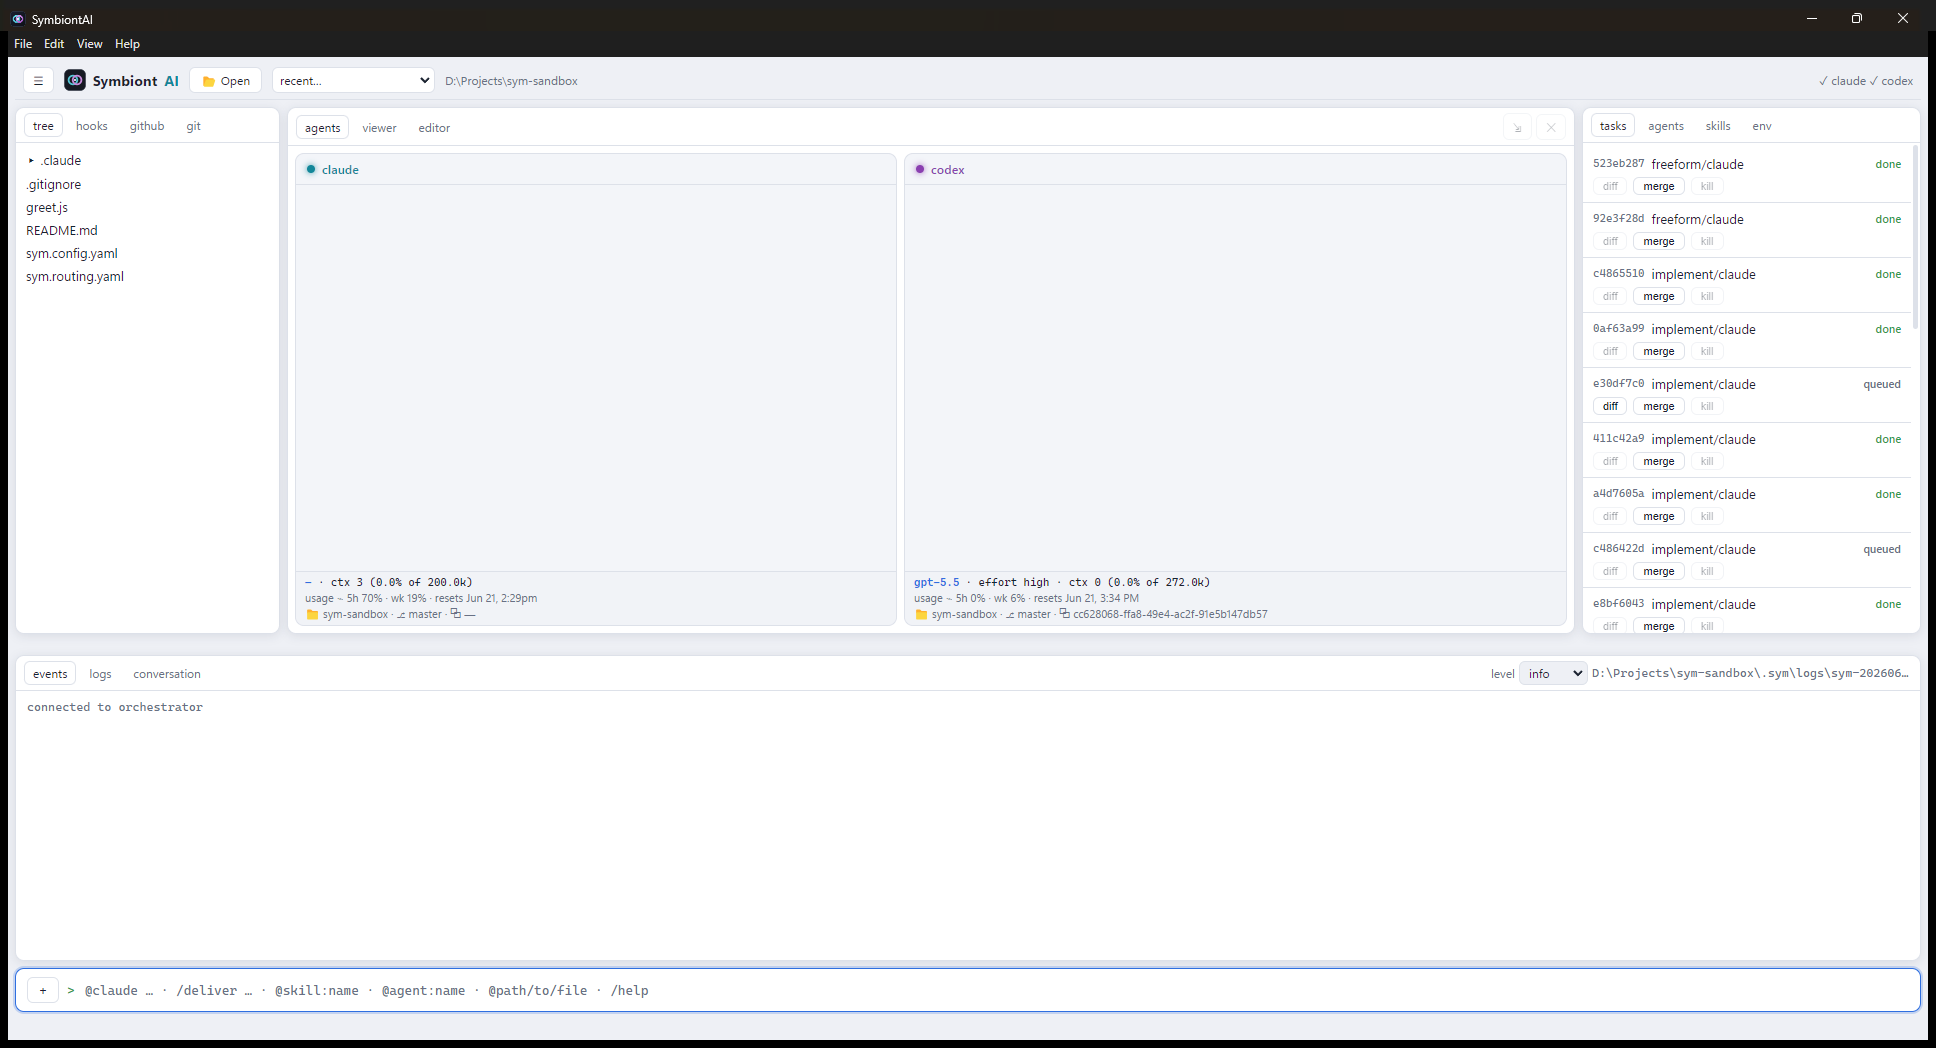
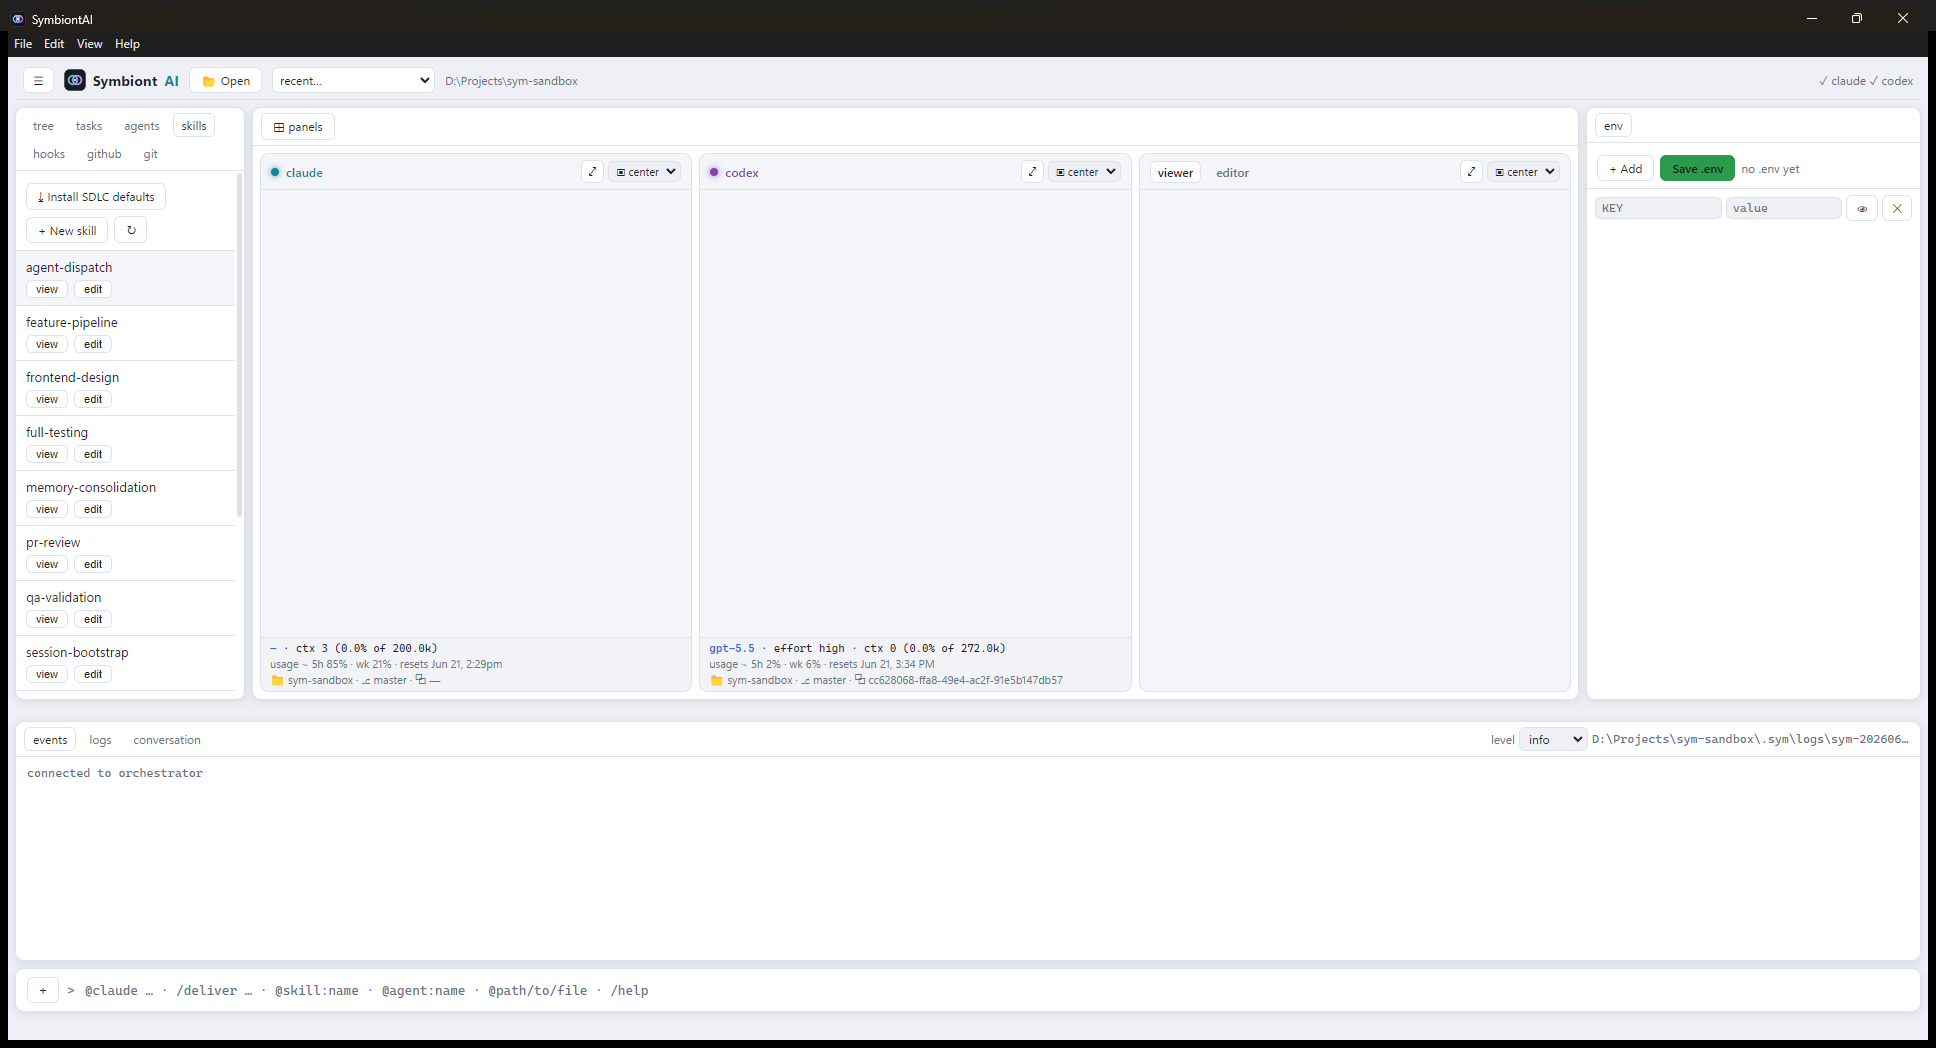
1.2.0: feedback button on site + README, changelog, screenshot

diff --git a/_layouts/default.html b/_layouts/default.html
@@ -1,0 +1,37 @@
+<!DOCTYPE html>
+<html lang="{{ site.lang | default: "en-US" }}">
+  <head>
+    <meta charset="UTF-8">
+    {% seo %}
+    <meta name="viewport" content="width=device-width, initial-scale=1">
+    <link rel="stylesheet" href="{{ '/assets/css/style.css?v=' | append: site.github.build_revision | relative_url }}">
+    {% include head-custom.html %}
+  </head>
+  <body>
+    <a id="skip-to-content" href="#content">Skip to the content.</a>
+
+    <header class="page-header" role="banner">
+      <h1 class="project-name">{{ page.title | default: site.title | default: site.github.repository_name }}</h1>
+      <h2 class="project-tagline">{{ page.description | default: site.description | default: site.github.project_tagline }}</h2>
+      {% if site.github.is_project_page %}
+        <a href="{{ site.github.repository_url }}" class="btn">View on GitHub</a>
+      {% endif %}
+      {% if site.show_downloads %}
+        <a href="{{ site.github.zip_url }}" class="btn">Download .zip</a>
+        <a href="{{ site.github.tar_url }}" class="btn">Download .tar.gz</a>
+      {% endif %}
+      <a href="https://forms.gle/HdXv729bSPJeta3C8" class="btn" target="_blank" rel="noopener">Give Feedback</a>
+    </header>
+
+    <main id="content" class="main-content" role="main">
+      {{ content }}
+
+      <footer class="site-footer">
+        {% if site.github.is_project_page %}
+          <span class="site-footer-owner"><a href="{{ site.github.repository_url }}">{{ site.github.repository_name }}</a> is maintained by <a href="{{ site.github.owner_url }}">{{ site.github.owner_name }}</a>.</span>
+        {% endif %}
+        <span class="site-footer-credits">This page was generated by <a href="https://pages.github.com">GitHub Pages</a>.</span>
+      </footer>
+    </main>
+  </body>
+</html>

diff --git a/CHANGELOG.md b/CHANGELOG.md
@@ -5,6 +5,39 @@ All notable changes to SymbiontAI are documented here.
 The format is based on [Keep a Changelog](https://keepachangelog.com/en/1.1.0/),
 and this project adheres to [Semantic Versioning](https://semver.org/spec/v2.0.0.html).
 
+## [1.2.0] — 2026-06-21
+
+### Added
+- **Fully customizable panel layout.** claude, codex, and a tabbed viewer/editor
+  ("docs") panel are now movable panels. Each can sit in the **center** (as a
+  resizable column), move to the **right sidebar**, **hide**, or **maximize**
+  (fill the center). Use the per-panel dropdown or the **⊞ panels** menu. The
+  center shows 1–3 columns side by side. By default the viewer/editor panel is
+  visible in the center as tabs (no longer hidden).
+- **Double-click to open.** Double-clicking a file in the tree, or an agent or
+  skill in the sidebar, opens it directly in the viewer.
+- **Persona control.** "Use as persona" now shows an active-persona banner and a
+  one-click **remove**, with a tooltip explaining it applies the agent's persona
+  as system context for dispatched coding tasks (/work, /symbiose, /deliver).
+- **Unified right-sidebar tabs.** Panels moved to the right sidebar now share one
+  tab bar with the sidebar tabs (tree/tasks/env/…), so e.g. the viewer/editor and
+  env appear as tabs together instead of separate stacked regions.
+- **Pasted screenshots are now readable by the agents.** A pasted image is saved
+  and referenced by its absolute path with an instruction to read it, so Claude
+  and Codex can actually view it (previously only a filename was passed).
+- **Feedback link** in the in-app guide, the public site, and the README.
+
+### Fixed
+- **Left sidebar is now resizable** — its drag handle referenced a wrong element
+  id and silently failed.
+- **Precise column resizing.** Dragging dividers between center columns is now
+  pixel-accurate via explicit flex-basis (the previous approach scaled by panel
+  count and jumped).
+- A newly shown center panel no longer renders at ~0px width next to columns with
+  stale widths; widths reset fairly when the set of center columns changes.
+- External links (e.g. the feedback form) open in the system browser, not inside
+  the app window.
+
 ## [1.1.2] — 2026-06-21
 
 ### Fixed
@@ -139,6 +172,7 @@ First packaged release of the SymbiontAI desktop app.
   worktree-per-task isolation, rule-based router + DAG scheduler, turn-based
   mailbox, the symbiosis review loop, and an Ink TUI.
 
+[1.2.0]: https://github.com/ESCID94/SymbiontAI/releases/tag/v1.2.0
 [1.1.2]: https://github.com/ESCID94/SymbiontAI/releases/tag/v1.1.2
 [1.1.1]: https://github.com/ESCID94/SymbiontAI/releases/tag/v1.1.1
 [1.1.0]: https://github.com/ESCID94/SymbiontAI/releases/tag/v1.1.0

diff --git a/README.md b/README.md
@@ -53,7 +53,7 @@ Every release ships a `checksums.txt` with SHA-256 hashes.
 
 ```powershell
 # Windows (PowerShell)
-Get-FileHash .\SymbiontAI-1.1.2-win32-x64.zip -Algorithm SHA256
+Get-FileHash .\SymbiontAI-1.2.0-win32-x64.zip -Algorithm SHA256
 ```
 
 Compare the result with the value in `checksums.txt`.
@@ -111,6 +111,13 @@ See [`SECURITY.md`](SECURITY.md) to report a vulnerability.
 - **Documentation, screenshots, and mockups:** Creative Commons Attribution 4.0
   (CC BY 4.0).
 - **"SymbiontAI" name and logo:** all rights reserved.
+
+## Feedback
+
+Have feedback, a bug report, or a feature request? Please use our
+**[feedback form](https://forms.gle/HdXv729bSPJeta3C8)** — it directly shapes
+SymbiontAI. (There's also a **Give Feedback** button at the top of the
+[project page](https://escid94.github.io/SymbiontAI-app/).)
 
 ## Changelog
 

diff --git a/SECURITY.md b/SECURITY.md
@@ -37,12 +37,12 @@ download before running it:
 
 ```powershell
 # Windows (PowerShell)
-Get-FileHash .\SymbiontAI-1.1.2-win32-x64.zip -Algorithm SHA256
+Get-FileHash .\SymbiontAI-1.2.0-win32-x64.zip -Algorithm SHA256
 ```
 
 ```bash
 # macOS / Linux
-shasum -a 256 SymbiontAI-1.1.2-win32-x64.zip
+shasum -a 256 SymbiontAI-1.2.0-win32-x64.zip
 ```
 
 Compare the output against the value in `checksums.txt`.